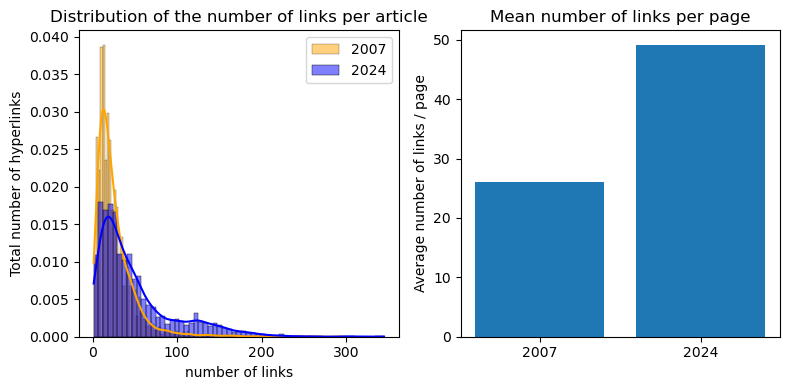
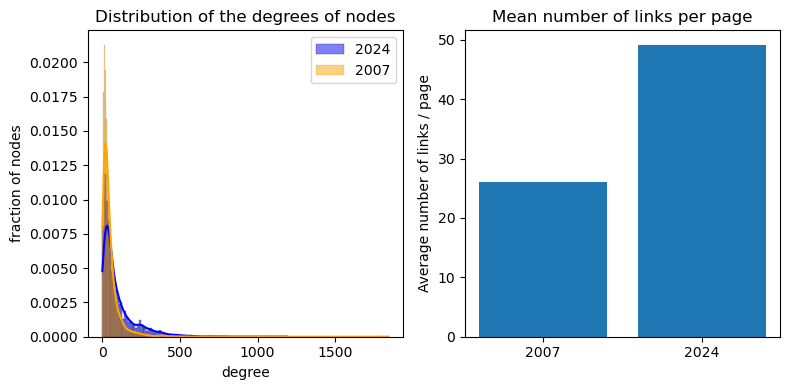
added new graphs in part 2 + modification of one graph

diff --git a/src/scripts/plotting.py b/src/scripts/plotting.py
@@ -15,13 +15,16 @@ __all__ = ['plot_average_links_per_page',
            'computing_shortest_path_matrix',
            'computing_difference_spm',
            'plotting_difference_heatmap',
+           'plot_degree_distribution',
            'get_sankey_data',
            'plot_distribution_path_length']
 
 
-def plot_average_links_per_page(links2007, links2024) :
+def plot_average_links_per_page(links2007, links2024, articles, graph_based=False) :
     '''
     bar plot of the mean number of links per pages, and compute independent t test 
+    Graph based approach can be used when graph_based is set to True to take isolated nodes into account 
+    Otherwise just computes the distribution based on the links list
     '''
     summary2007 = links2007.groupby(by='linkSource')
     summary2024 = links2024.groupby(by='linkSource')
@@ -36,12 +39,21 @@ def plot_average_links_per_page(links2007, links2024) :
     # p value = 1.04 e-305 << alpha = 0.05, the two distributions have significantly different means
     fig = plt.figure(figsize=(8,4))
 
-    plt.subplot(1, 2, 1)
-    ax = sns.histplot(summary2007.count()['linkTarget'], kde=True, stat='density', color='orange', label='2007')
-    ax = sns.histplot(summary2024.count()['linkTarget'], kde=True, stat='density', color='blue', label='2024')
-    ax.set(title='Distribution of the number of links per article', xlabel='number of links', ylabel='pages')
-    plt.ylabel('Total number of hyperlinks')
-    plt.legend()
+    if(graph_based) : 
+        ### creating Graphs 
+        G_2007 = creating_graph(links2007, articles)
+        G_2024 = creating_graph(links2024, articles)
+
+        plt.subplot(1, 2, 1)
+        plot_degree_distribution(G_2007, G_2024)
+    else :
+        # Distributions only using the number of links 
+
+        plt.subplot(1, 2, 1)
+        ax = sns.histplot(summary2007.count()['linkTarget'], kde=True, stat='density', color='orange', label='2007')
+        ax = sns.histplot(summary2024.count()['linkTarget'], kde=True, stat='density', color='blue', label='2024')
+        ax.set(title='Distribution of the number of links per article', xlabel='number of links', ylabel='number of pages')
+        plt.legend()
 
     plt.subplot(1, 2, 2)
     plt.bar(x=['2007', '2024'], height= [np.mean(summary2007.count()), np.mean(summary2024.count())])
@@ -182,6 +194,20 @@ def get_sankey_data(df, categories, type_data, suffix_fn='1'):
     tot_links = sum(value)
     return distrib, tot_links
 
+def plot_degree_distribution(G_2007, G_2024):
+    """
+    Plots distribution of the degrees of the nodes, using a graph based approach
+    """
+    degree_sequence_2007 = sorted((d for n, d in G_2007.degree()), reverse=True)
+    degree_sequence_2024 = sorted((d for n, d in G_2024.degree()), reverse=True)
+
+    ax = sns.histplot(degree_sequence_2024,
+                    kde=True, stat='density', color='blue', label='2024')
+    ax = sns.histplot(degree_sequence_2007,
+                    kde=True, stat='density', color='orange', label='2007')
+
+    ax.set(title='Distribution of the degrees of nodes', xlabel='degree', ylabel='fraction of nodes')
+    plt.legend()
 
 def plot_distribution_path_length(G_2007, G_2024, n_samples=100, start_hops=0, n_hops=10):
     """
